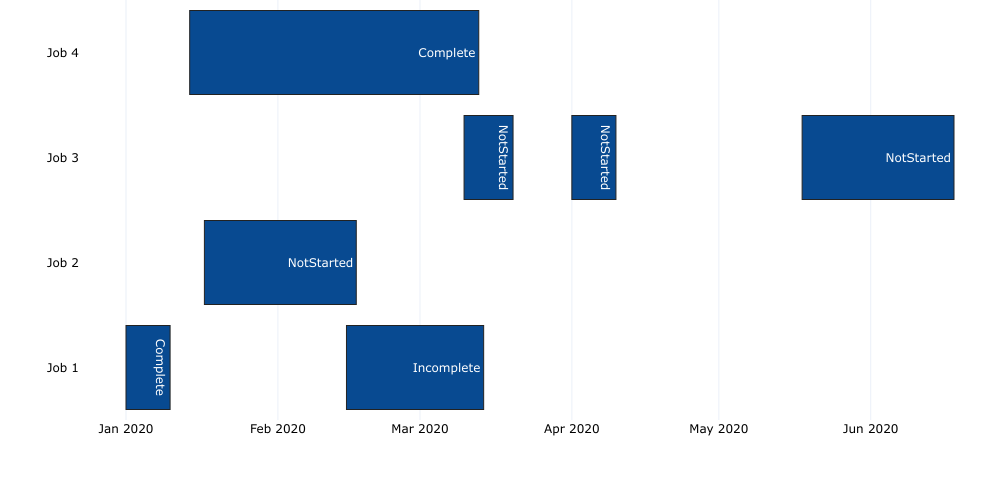
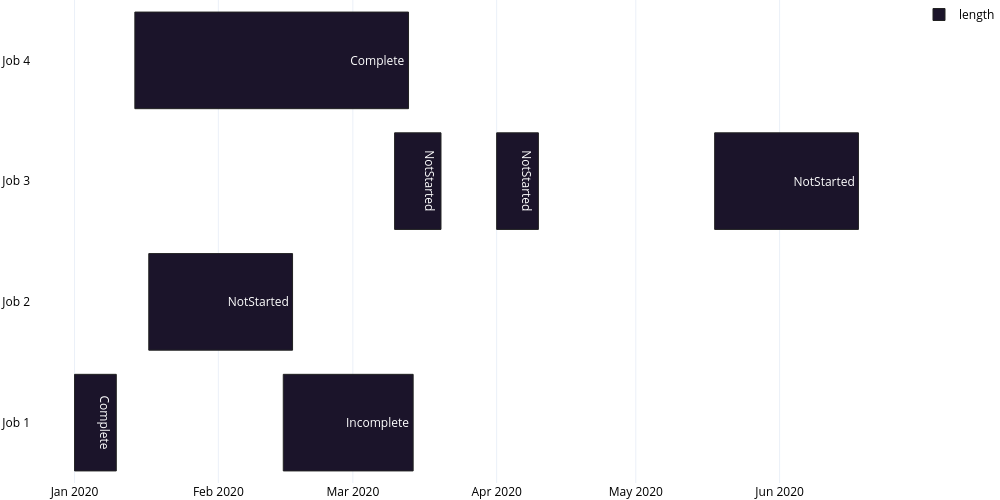
default now to cubehelix seaborn colour palette, custmizable through colour-palette option

diff --git a/plot.py b/plot.py
@@ -27,7 +27,6 @@ import pandas
 import numpy
 import os
 import re
-import colour
 import subprocess
 import statistics
 import sys
@@ -36,6 +35,7 @@ import copy
 import textwrap
 import shutil
 import xopen
+import seaborn
 
 
 def isFloat(val):
@@ -556,9 +556,9 @@ parserPlotOptions.add_argument('--colspan', type=int, choices=Range(1, None), he
 
 parserPlotOptions.add_argument("--error", help="show error markers in plot (need to be supplied by data)", default='hide', choices=['show', 'hide'], action=ChildAction, parent=inputFileArgument)
 parserPlotOptions.add_argument("--trace-names", help="set individual trace names", default=[], sticky_default=True, type=str, nargs='+', action=ChildAction, parent=inputFileArgument)
-parserPlotOptions.add_argument("--trace-colours", help="define explicit trace colours", default=[], nargs='+', type=colour.Color, sticky_default=True, action=ChildAction, parent=inputFileArgument)
+parserPlotOptions.add_argument("--trace-colours", help="define explicit trace colours", default=[], nargs='+', type=str, sticky_default=True, action=ChildAction, parent=inputFileArgument)
 parserPlotOptions.add_argument("--line-width", help="set line width (default %(default)s)", type=int, default=1, choices=Range(0,), action=ChildAction, parent=inputFileArgument)
-parserPlotOptions.add_argument("--line-colour", help="set line colour  (default %(default)s) (line charts are using just colour)", type=colour.Color, default=colour.Color('#222222'), action=ChildAction, parent=inputFileArgument)
+parserPlotOptions.add_argument("--line-colour", help="set line colour  (default %(default)s) (line charts are using just colour)", type=str, default='#222222', action=ChildAction, parent=inputFileArgument)
 parserPlotOptions.add_argument("--opacity", help="colour opacity (default 0.8 for overlay modes, else 1.0)", choices=Range(0, 1, ['auto']), action=ChildAction, parent=inputFileArgument)
 parserPlotOptions.add_argument("--offsetgroups", help="set explicit offsetgroups for e.g. bar charts", type=int, default='auto', nargs='+', choices=Range(0, None, ['auto']), sticky_default=True, action=ChildAction, parent=inputFileArgument)
 
@@ -641,15 +641,14 @@ parserPlotAxisOptions.add_argument("--x-line-width", help="set x-axis line width
 parserPlotAxisOptions.add_argument("--grid-colour", help="set grid colour", type=str, default=None, action=ChildAction, parent=inputFileArgument)
 
 parserColourOptions = parser.add_argument_group('colour options')
-parserColourOptions.add_argument("--theme", help="theme to use (colour options only apply to 'gradient')", default='gradient', choices=["gradient", "plotly", "plotly_white", "plotly_dark", "ggplot2", "seaborn", "simple_white", "none"])
-parserColourOptions.add_argument("-c", "--colours", help="define explicit colours (no gradient)", default=[], nargs='+', type=colour.Color)
-parserColourOptions.add_argument("--colour-from", help="colour gradient start (default %(default)s)", default=colour.Color("#022752"), type=colour.Color)
-parserColourOptions.add_argument("--colour-to", help="colour gradient end (default %(default)s)", default=colour.Color("#CCD9FB"), type=colour.Color)
-parserColourOptions.add_argument("--colour-count", help="colours to use from gradient (overrides per trace, frame and input colours)", type=int, choices=Range(1,), default=None)
+parserColourOptions.add_argument("--theme", help="theme to use (colour options only apply to 'palette')", default='palette', choices=["palette", "plotly", "plotly_white", "plotly_dark", "ggplot2", "seaborn", "simple_white", "none"])
+parserColourOptions.add_argument("-c", "--colours", help="define explicit colours (no palette)", default=[], nargs='+', type=str)
+parserColourOptions.add_argument("--colour-palette", help="valid seaborn colour palette (default %(default)s)",type=str, default='ch:s=0.2,rot=-0.3,d=0.9,l=0.1')
+parserColourOptions.add_argument("--colour-count", help="set the number of colours to generate from palette", type=int, choices=Range(1,), default=None)
 parserColourOptions.add_argument("--per-trace-colours", help="one colour for each trace (default)", action='store_true', default=False)
 parserColourOptions.add_argument("--per-frame-colours", help="one colour for each dataframe", action='store_true', default=False)
 parserColourOptions.add_argument("--per-input-colours", help="one colour for each input file", action='store_true', default=False)
-parserColourOptions.add_argument("--font-colour", help="font colour (default %(default)s)", type=colour.Color, default=colour.Color('#000000'))
+parserColourOptions.add_argument("--font-colour", help="font colour (default %(default)s)", type=str, default='#000000')
 parserColourOptions.add_argument("--background-colour", help="set background colour  (default 'rgba(255, 255, 255, 0)')", type=str, default=None)
 
 parserPlotGlobalOptions = parser.add_argument_group('plot global options')
@@ -698,7 +697,7 @@ commentColour = ''
 commentBackgroundColour = ''
 uniqueBarMode = False
 
-if args.theme == 'gradient':
+if args.theme == 'palette':
     args.theme = 'plotly_white'
 else:
     # We have chosen a theme, so just comment all colour settings out
@@ -1239,7 +1238,11 @@ for i, p in enumerate(args.output):
 
 # Building up the colour array
 requiredColours = args.colour_count if args.colour_count is not None else totalTraceCount if args.per_trace_colours else totalFrameCount if args.per_frame_colours else totalInputCount
-colours = args.colours if args.colours else list(args.colour_from.range_to(args.colour_to, requiredColours))
+if args.colours:
+    colours = args.colours
+else:
+    colours = seaborn.color_palette(args.colour_palette, requiredColours)
+    colours = [f'rgb({int(255*r)}, {int(255*g)}, {int(255*b)})' for (r,g,b) in colours]
 colourIndex = 0
 
 legendEntries = []
@@ -1294,7 +1297,7 @@ import platform
 
 parser = argparse.ArgumentParser(description="plots the contained figure")
 parser.add_argument("--font-size", help="font size (default %(default)s)", type=int, default={args.font_size})
-parser.add_argument("--font-colour", help="font colour (default %(default)s)", default='{args.font_colour.hex}')
+parser.add_argument("--font-colour", help="font colour (default %(default)s)", default='{args.font_colour}')
 parser.add_argument("--font-family", help="font family (default %(default)s)", default='{args.font_family}')
 parser.add_argument("--orca", help="path to plotly orca (https://github.com/plotly/orca)", type=str, default=None)
 parser.add_argument("--width", help="width of output file (default %(default)s)", type=int, default={args.width})
@@ -1364,7 +1367,7 @@ for input in data:
             for colIndex in range(len(frame.columns)):
                 colName = str(frame.columns[colIndex])
                 if (colName == options.special_column_start + 'category') and _categories is None:
-                    _categories = frame.iloc[:, colIndex].values.tolist()
+                    _categories = ['' if x is None else x for x in frame.iloc[:, colIndex].values.tolist()]
 
         for colIndex, _ in enumerate(frame.columns):
             col = str(frame.columns[colIndex])
@@ -1375,7 +1378,7 @@ for input in data:
                 fillcolour = options.trace_colours[frameTraceIndex]
             else:
                 fillcolour = colours[colourIndex % len(colours)]
-            markercolour = colour.Color(options.line_colour)
+            markercolour = options.line_colour
 
             _errors_symmetric = True
             _errors_pos = None
@@ -1401,7 +1404,7 @@ for input in data:
                     _labels = frame.iloc[:, nextColIndex].values.tolist()
                 elif (nextCol == options.special_column_start + 'colour') and (_colours is None) and (frameTraceIndex >= len(options.trace_colours)):
                     _colours = frame.iloc[:, nextColIndex].values.tolist()
-                    _colours = [c if c is not None else fillcolour.hex for c in _colours]
+                    _colours = [c if c is not None else fillcolour for c in _colours]
 
             if (options.plot == 'line'):
                 ydata = frame.iloc[:, colIndex].values.tolist() if not options.vertical else list(frame.index)
@@ -1467,10 +1470,10 @@ fig.add_trace(go.Scatter(
     marker_color={_colours},""")
                 else:
                     plotScript.write(f"""
-{commentColour}    marker_color='{fillcolour.hex}',""")
+{commentColour}    marker_color='{fillcolour}',""")
                 plotScript.write(f"""
-{commentColour}    line_color='{fillcolour.hex}',
-{commentColour}    fillcolor='rgba({fillcolour.red}, {fillcolour.green}, {fillcolour.blue}, 0.5)', # Currently not supported through script, using default
+{commentColour}    line_color='{fillcolour}',
+{commentColour}    fillcolor='{fillcolour}', # Currently not supported through script, using default
     stackgroup='{'stackgroup-' + str(inputIndex) if options.line_stack else ''}',
     marker_symbol='{lineMarker}',
     marker_size={options.line_marker_size},
@@ -1509,9 +1512,9 @@ fig.add_trace(go.Bar(
     marker_color={_colours},""")
                 else:
                     plotScript.write(f"""
-{commentColour}    marker_color='{fillcolour.hex}',""")
+{commentColour}    marker_color='{fillcolour}',""")
                 plotScript.write(f"""
-{commentColour}    marker_line_color='{markercolour.hex}',
+{commentColour}    marker_line_color='{markercolour}',
     marker_line_width={options.line_width},
     width={options.bar_width},
     offset={options.bar_shift},
@@ -1550,9 +1553,9 @@ fig.add_trace(go.Box(
     boxpoints=False,
     boxmean={True if options.box_mean == 'line' else False},
     width={options.box_width},
-{commentColour}    fillcolor='{fillcolour.hex}',
-{commentColour}    line_color='{markercolour.hex}',
-{commentColour}    marker_color='{markercolour.hex}',
+{commentColour}    fillcolor='{fillcolour}',
+{commentColour}    line_color='{markercolour}',
+{commentColour}    marker_color='{markercolour}',
     line_width={options.line_width},
     orientation='{'v' if options.vertical else 'h'}',
     opacity={options.opacity},
@@ -1566,8 +1569,8 @@ fig.add_trace(go.Scatter(
     showlegend=False,
     x={xdata if options.vertical else [statistics.mean(xdata)]},
     y={ydata if not options.vertical else [statistics.mean(ydata)]},
-{commentColour}    fillcolor='{fillcolour.hex}',
-{commentColour}    line_color='{markercolour.hex}',
+{commentColour}    fillcolor='{fillcolour}',
+{commentColour}    line_color='{markercolour}',
     line_width={options.line_width},
     opacity={options.opacity},
 ), col={options.col}, row={options.row}, secondary_y={options.y_secondary})
@@ -1588,9 +1591,9 @@ fig.add_trace(go.Violin(
     scalegroup='trace{inputTraceIndex}',
     y={ydata},
     x={xdata},
-{commentColour}    fillcolor='{fillcolour.hex}',
-{commentColour}    line_color='{options.line_colour.hex}',
-{commentColour}    marker_color='{markercolour.hex}',
+{commentColour}    fillcolor='{fillcolour}',
+{commentColour}    line_color='{options.line_colour}',
+{commentColour}    marker_color='{markercolour}',
     line_width={options.line_width},
     side='{side}',
     width={options.violin_width},
@@ -1640,7 +1643,7 @@ fig.add_trace(go.Violin(
     plotScript.write(f"fig.update_xaxes(showline={options.x_line_width > 0}, linewidth={options.x_line_width}, linecolor={options.x_colour}, gridcolor={options.x_grid_colour}, col={options.col}, row={options.row})\n")
     plotScript.write("# Multi-category options:\n")
     plotScript.write(f"fig.update_yaxes(showdividers={options.y_line_width > 0}, dividercolor={options.y_colour}, dividerwidth={options.y_line_width}, col={options.col}, row={options.row}, secondary_y={options.y_secondary})\n")
-    plotScript.write(f"fig.update_xaxes(showdividers={options.x_line_width > 0}, dividercolor={options.x_colour}, dividerwidth={options.y_line_width}, col={options.col}, row={options.row})\n")
+    plotScript.write(f"fig.update_xaxes(showdividers={options.x_line_width > 0}, dividercolor={options.x_colour}, dividerwidth={options.x_line_width}, col={options.col}, row={options.row})\n")
     plotScript.write(f"{'# ' if not options.y_hide else ''}fig.update_yaxes(visible=False, showticklabels=False, showgrid=True, zeroline=False, row={options.row}, col={options.col}, secondary_y={options.y_secondary})\n")
     plotScript.write(f"{'# ' if not options.x_hide else ''}fig.update_xaxes(visible=False, showticklabels=False, showgrid=True, zeroline=False, row={options.row}, col={options.col})\n")
     plotScript.write(f"{'# ' if options.y_title is None else ''}fig.update_yaxes(title_text='{options.y_title}', col={options.col}, row={options.row}, secondary_y={options.y_secondary})\n")
